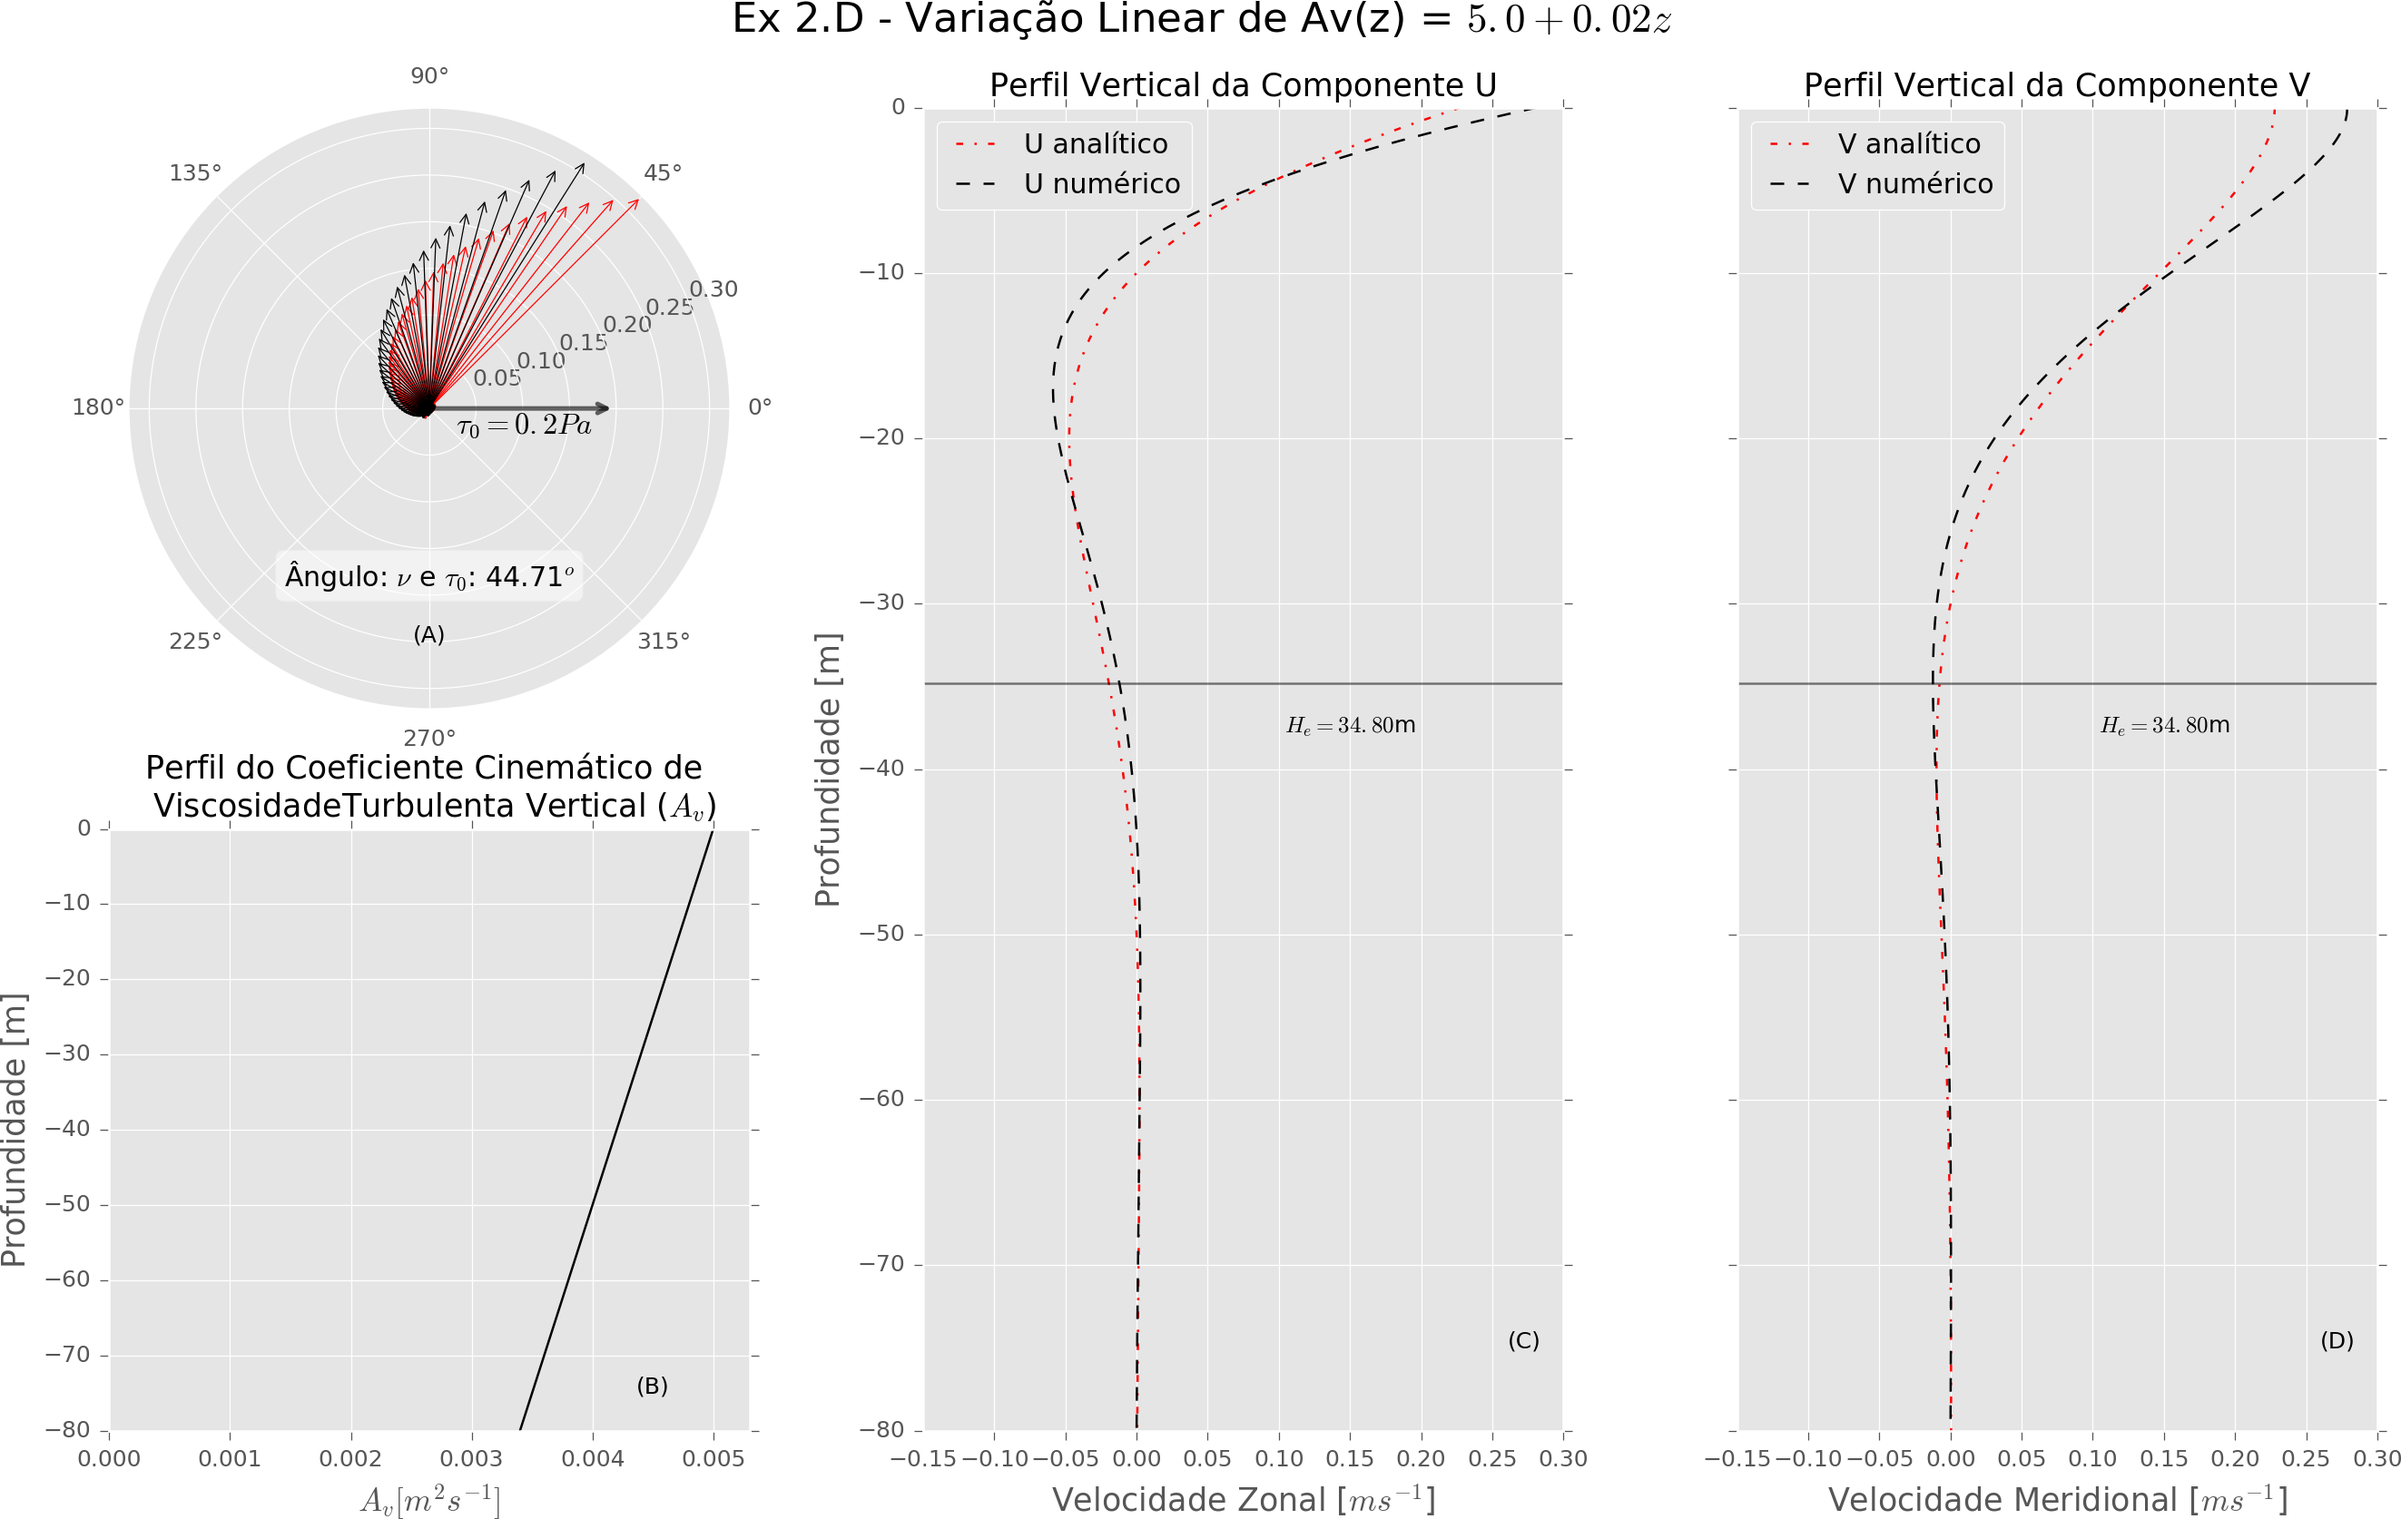
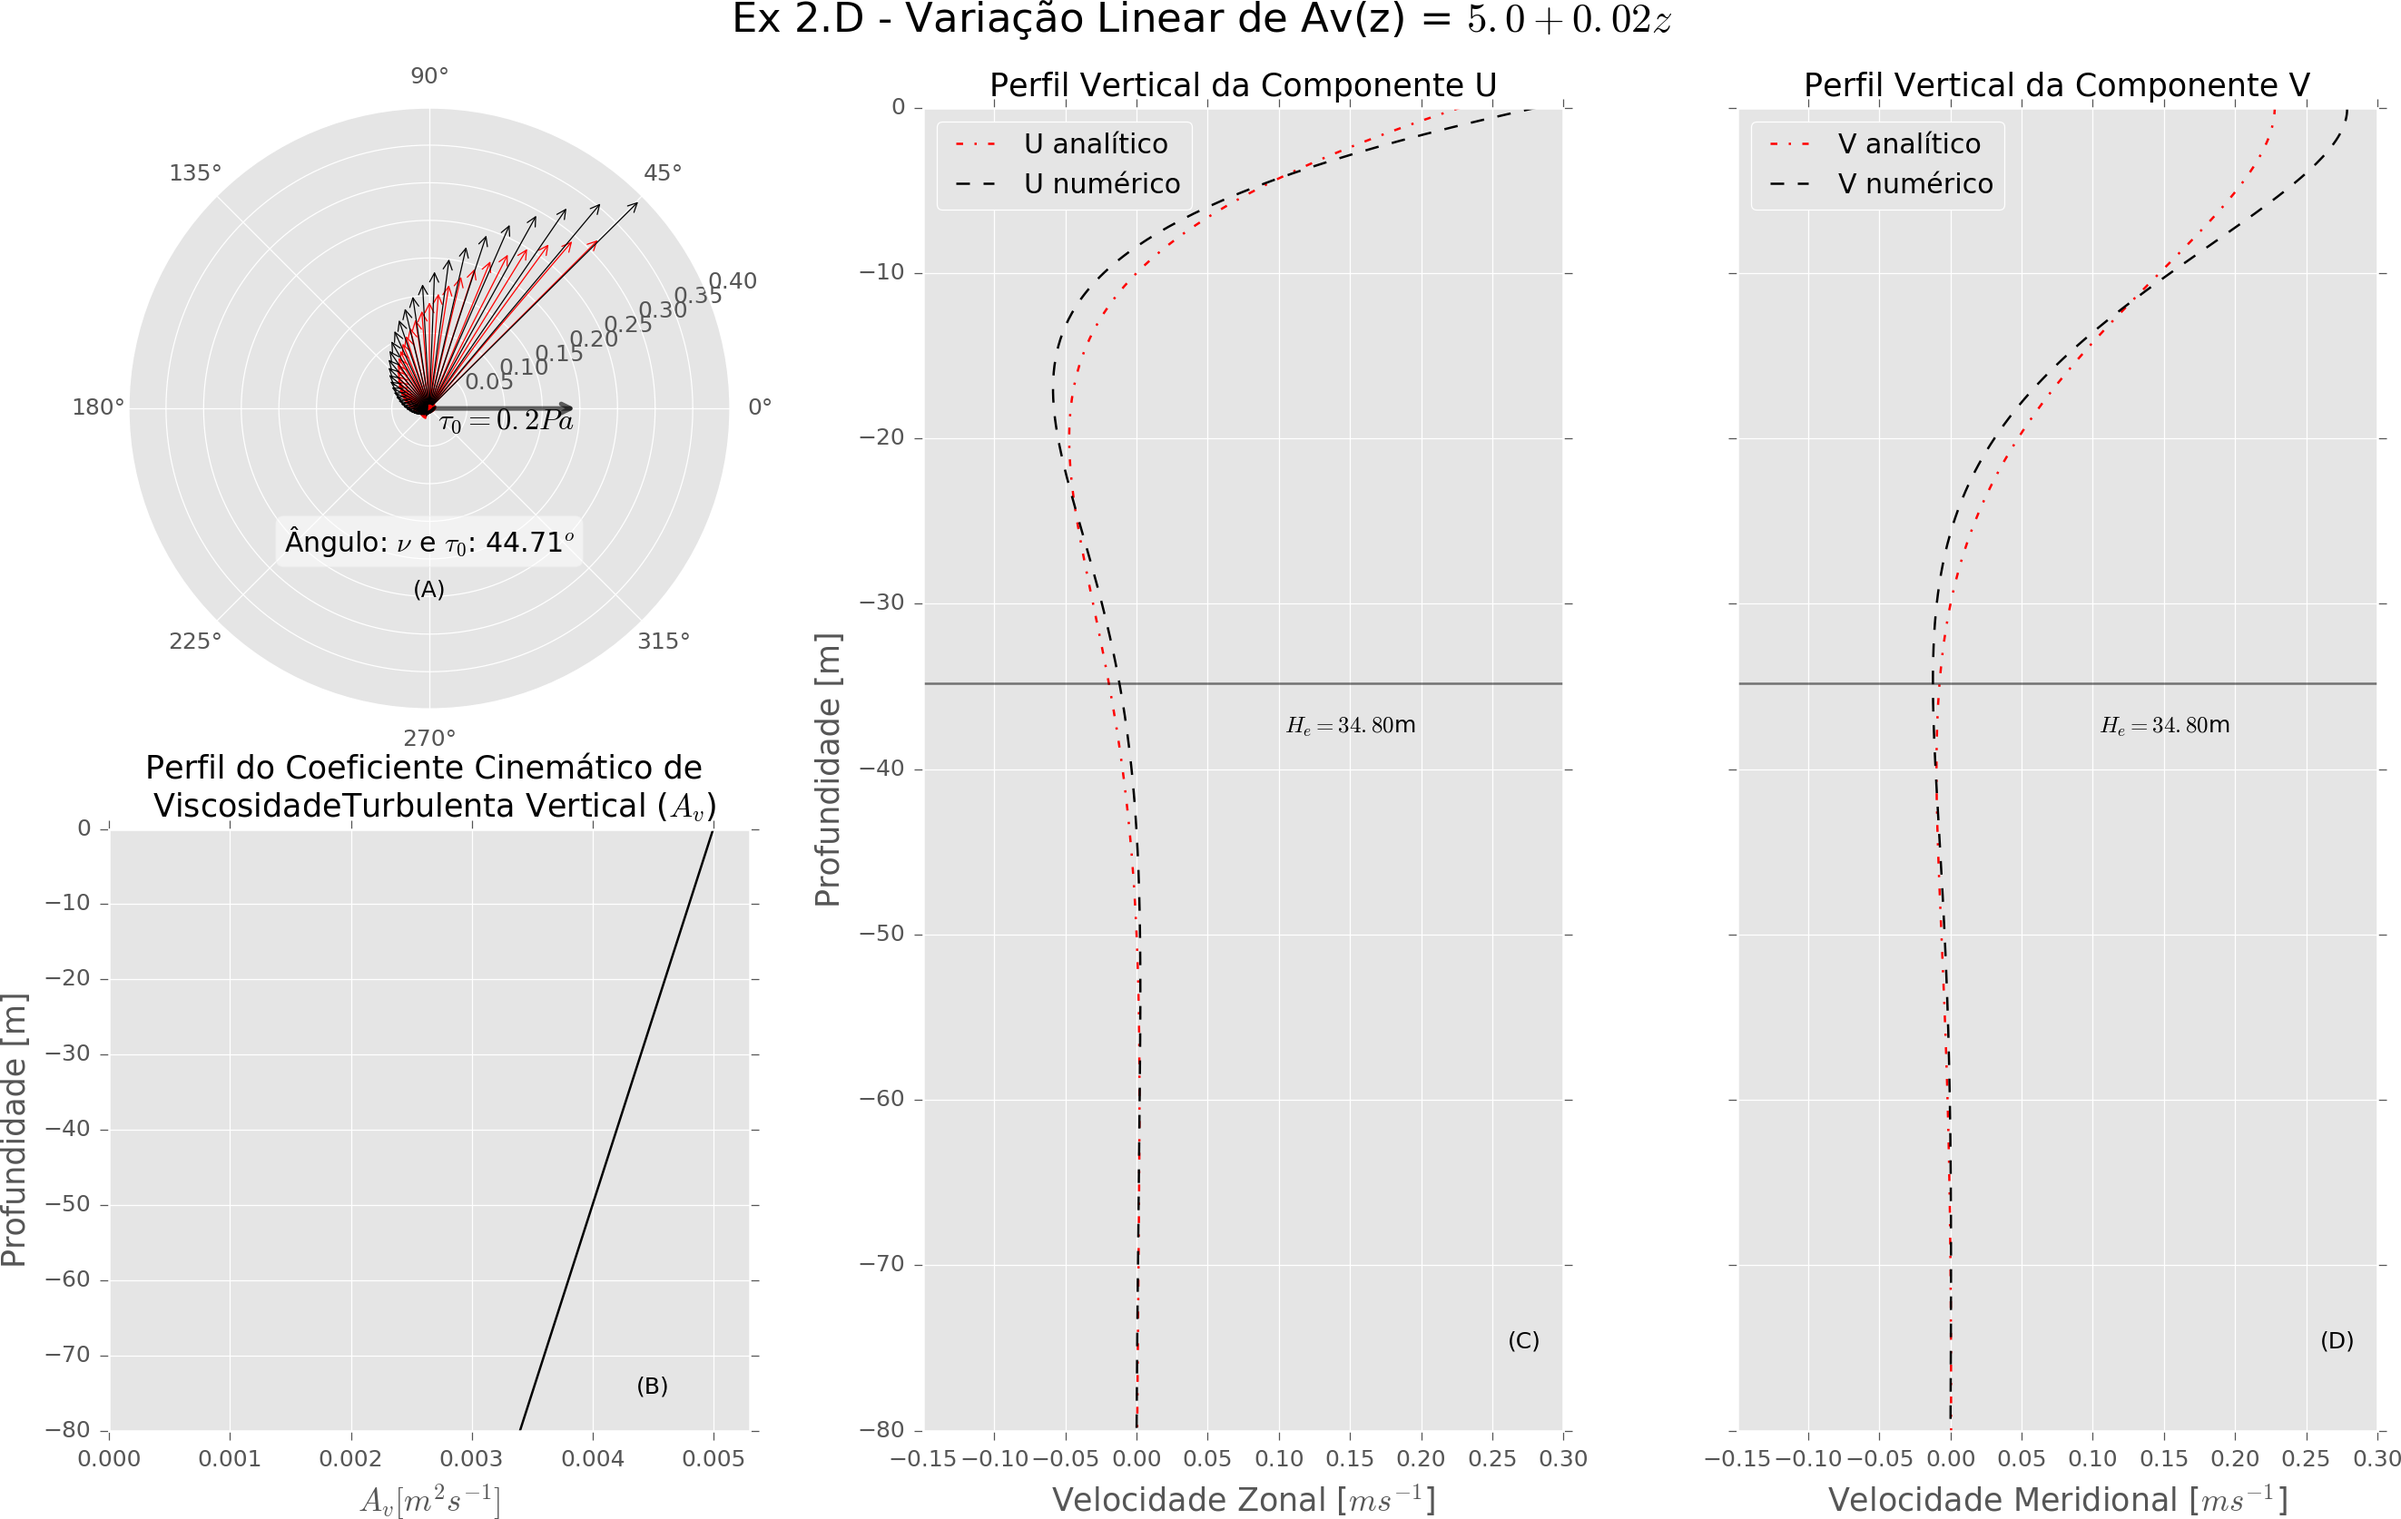
homeLab_02Ago

Changed region(s): [[0.155, 0.1243, 0.248, 0.2796], [0.124, 0.3417, 0.217, 0.4038], [0.248, 0.1864, 0.31, 0.2174]]

diff --git a/IOC5811/lista3/codes/list3.py b/IOC5811/lista3/codes/list3.py
@@ -286,8 +286,6 @@ def multiple_compass(ax, us, vs, colors, arrowprops=None):
                  arrowprops=kw) for
      angle, radius in zip(angles, radii)]
 
-    ax.set_ylim(0, np.max(radii))                       # setar limite do raio do plot
-
     # plotar numérico
     angles, radii = cart2pol(U,V)
     kw = dict(arrowstyle="->", color=C)
@@ -296,6 +294,8 @@ def multiple_compass(ax, us, vs, colors, arrowprops=None):
     [ax.annotate("", xy=(angle, radius), xytext=(0, 0),
                  arrowprops=kw) for
      angle, radius in zip(angles, radii)]
+
+    ax.set_ylim(0, 0.4)                                # setar limite do raio do plot
 
     ################################################
     ### plotar vetor do vento e angulo calculado ###
@@ -398,10 +398,10 @@ def exercicio3():
         "zr": np.array([10,20,40,50,80]),
     }
     experimentos = {
-        # u'Ex 2.C - Av(z) constante ($5x10^{-2} m^2 s^{-1}$)': np.repeat(0.5e-2, z.shape[0]),
-        # u'Ex 2.D - Variação Linear de Av(z) = $5.0 + 0.02z$': (5.+0.02*z)*fator,
-        # u'Ex 2.E - Variação Linear de Av(z) = $-0.0625z$ - Madsen(JPO, 1970)': (-0.0625*z)*fator,
-        r'Ex 2.F - Variação Exponencial de Av(z) = $5e^{\frac{z}{d}}$, para d=30m': (5*np.exp(z/30))*fator,
+        u'Ex 2.C - Av(z) constante ($5x10^{-2} m^2 s^{-1}$)': np.repeat(0.5e-2, z.shape[0]),
+        u'Ex 2.D - Variação Linear de Av(z) = $5.0 + 0.02z$': (5.+0.02*z)*fator,
+        u'Ex 2.E - Variação Linear de Av(z) = $-0.0625z$ - Madsen(JPO, 1970)': (-0.0625*z)*fator,
+        r'Ex 2.F - Variação Exponencial de Av(z) = $5e^{\frac{z}{d}}$, para d=30m': (5*np.exp(z/30))*10e-3,
         # u'Variação de Av(z) baseado em Yu and O\'Brien (JPO, 1991)': True
     }
 
@@ -440,7 +440,7 @@ def exercicio3():
 
         prof_camada = calcular_profundidadeEfetiva(spde, spd, Z, hE)# calculo da profundidade efetiva com o perfil de Av do experimento
 
-        plotar_exec3(Av,U,V,Z,ue,ve,title,profEfetiva=prof_camada, savefig='') #key[:6].replace(' ', '').replace('.', '') + '.png'
+        plotar_exec3(Av,U,V,Z,ue,ve,title,profEfetiva=prof_camada, savefig=key[:6].replace(' ', '').replace('.', '') + '.png') #
 
 """ plotar exercicio 3"""
 def plotar_exec3(Av,U,V,Z,ue,ve,title,profEfetiva,savefig=''):
@@ -461,10 +461,16 @@ def plotar_exec3(Av,U,V,Z,ue,ve,title,profEfetiva,savefig=''):
     ###                   configurações do gráfico                 ###
     ##################################################################
 
+    # general configuration
     figsize      = (15,10)                          # tamanho da figura
     gradeamento  = [2,3]                            # gradeamento dos subplots
-    spaceStep    = 4                                # step para plotar os vetores (evitar imagem densa)
 
+    qualid_output= 180                              # qualidade da imagem de saída, em dpi
+    save_dir     = '../outputs/'                    # diretório para salvar imagens
+    # vertical profile plot configuration
+    title_size   = 14                               # set subplot's title size
+    label_size   = 14                               # set label size
+    ticks_size   = 10                               # set ticks size
     limite_eixoX = [-0.15, 0.3]                     # xlim para os perfis verticais
     limite_eixoY = [-80.0, 0.0]                     # xlim para os perfis verticais
     limite_Av    = [0.0, 0.005]                     # limite horizontal para perfil de Av
@@ -473,13 +479,10 @@ def plotar_exec3(Av,U,V,Z,ue,ve,title,profEfetiva,savefig=''):
     xy_a         = [(270*np.pi)/180, 0.25]          # posição do '(A)'
     xy_c         = [0.2725, -75.0]                  # posição do '(B)'
     xy_d         = [0.2725, -75.0]                  # posição do '(C)'
-
-    qualid_output= 180                              # qualidade da imagem de saída, em dpi
-    save_dir     = '../outputs/'                    # diretório para salvar imagens
-
-    title_size   = 14                               # set subplot's title size
-    label_size   = 14                               # set label size
-    ticks_size   = 10                               # set ticks size
+    # compass plot configuration
+    zSplit       = 40                               # depth to cut numerical velocity
+    spaceStep_Ana= 5                                # step para plotar os vetores da solução analítica (evitar imagem densa)
+    spaceStep_Num= 5                                # step para plotar os vetores da solução analítica (evitar imagem densa)
 
     import matplotlib as mpl
     mpl.rcParams['xtick.labelsize'] = ticks_size    # set x tick size
@@ -492,8 +495,13 @@ def plotar_exec3(Av,U,V,Z,ue,ve,title,profEfetiva,savefig=''):
     ##################################################################
     ### plotar hodógrafo confrontando solução analítica e numérica ###
     ##################################################################
-    us = (U[::spaceStep],ue[::spaceStep])                           # juntando o U e ue com um step
-    vs = (V[::spaceStep],ve[::spaceStep])                           # juntando o V e ve com um step
+    indsplit = np.where(Z == (-1)*zSplit)[0][0]
+
+    Usplit,Vsplit = U[:indsplit], V[:indsplit]                          # cut numerical velocity in indsplit to 
+                                                                    # avoid a dense polar plot around (0,0)
+
+    us = (Usplit[::spaceStep_Num],ue[::spaceStep_Ana])              # juntando o U e ue com um step
+    vs = (Vsplit[::spaceStep_Num],ve[::spaceStep_Ana])              # juntando o V e ve com um step
 
     ax1 = fig.add_subplot(gs[0,0], projection='polar')
     ax1 = multiple_compass(ax1, us, vs, colors=['k', 'r'])          # plotar os vetores de velocidade
